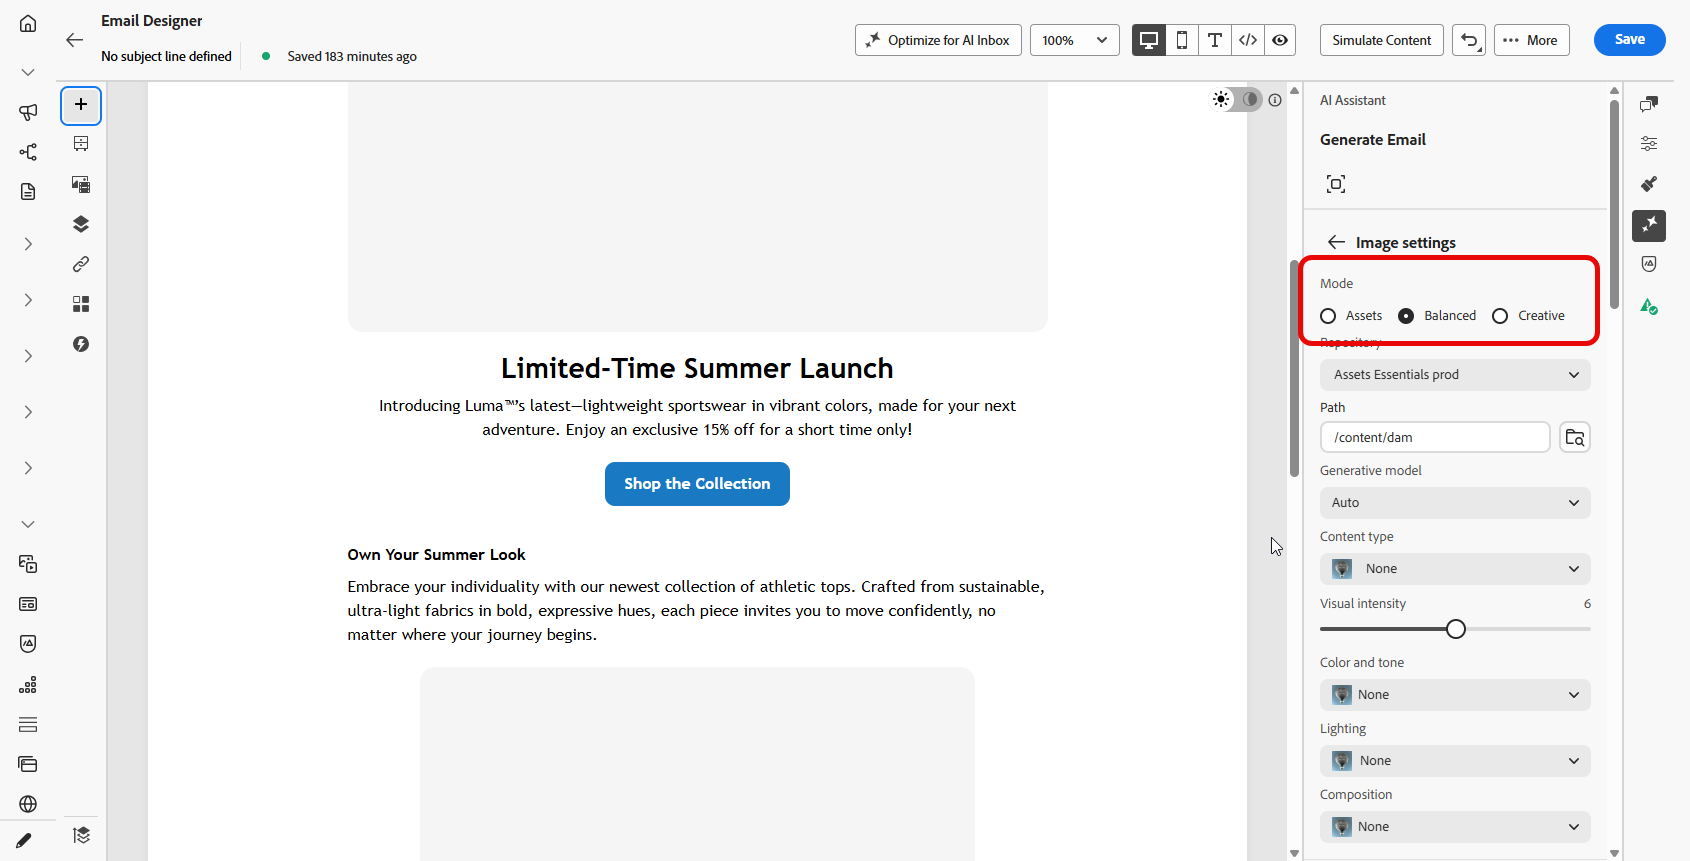
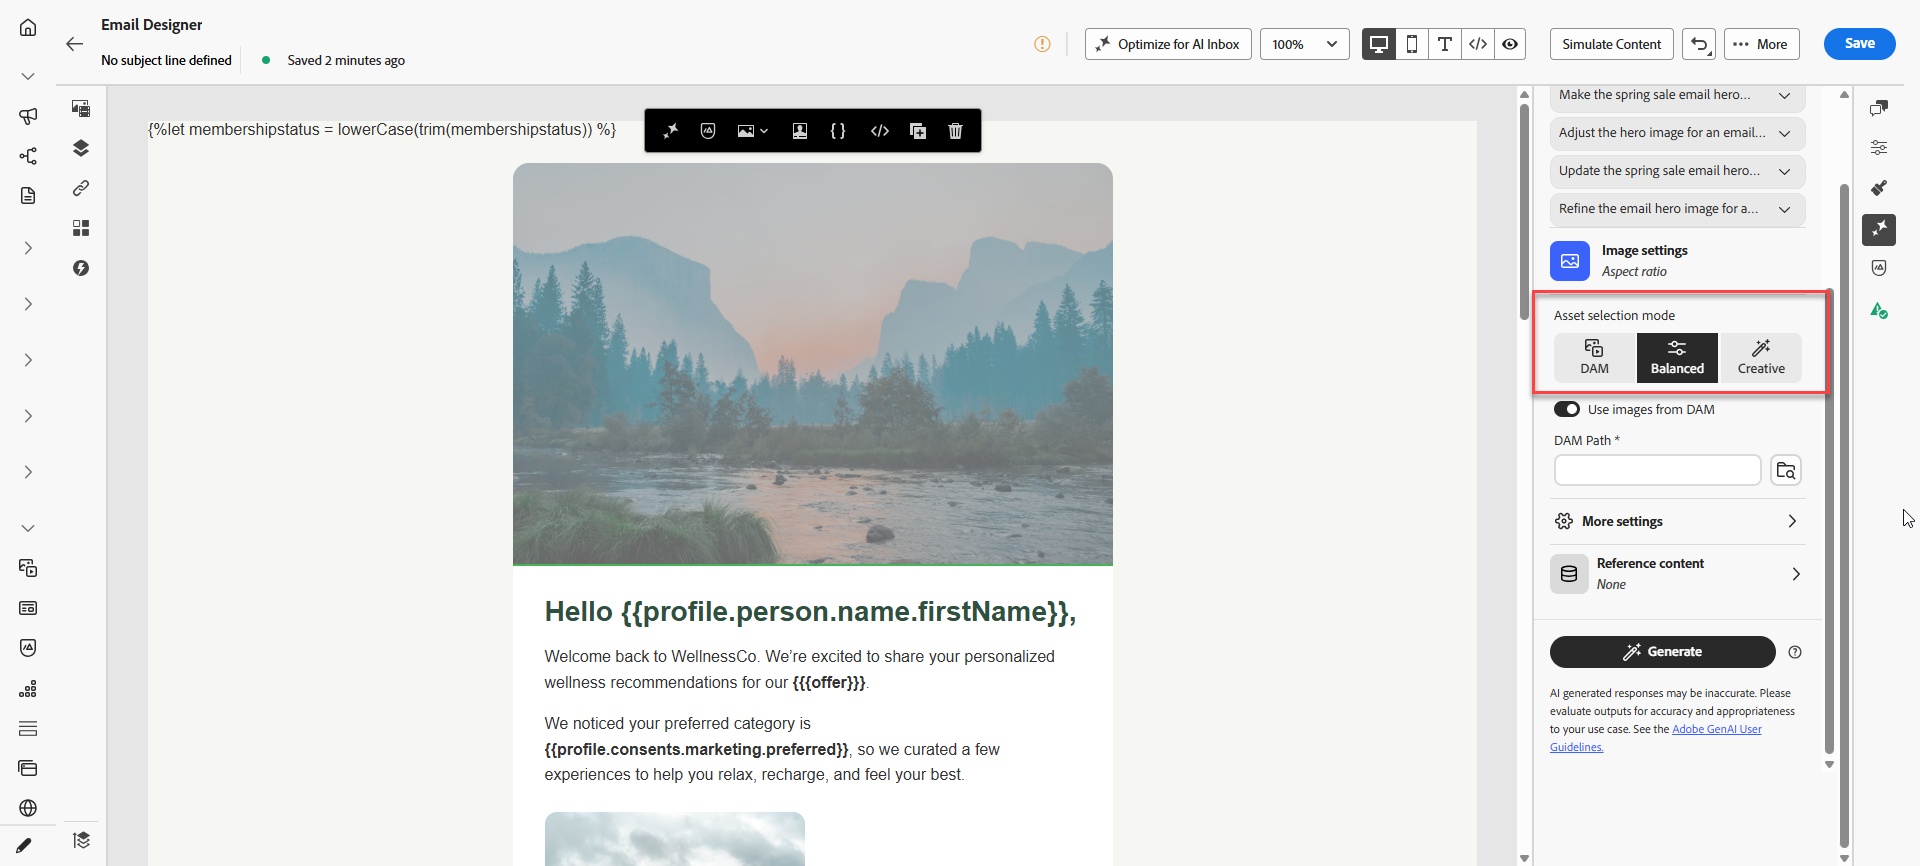
update with contextual help

diff --git a/help/using/content-management/generative-uc.md b/help/using/content-management/generative-uc.md
@@ -265,19 +265,26 @@ With **Gemini 2.5** selected as the generative model, you can produce image vari
 
 ## Use Image settings mode {#image-mode}
 
+>[!CONTEXTUALHELP]
+>id="ajo_assets_selection_mode"
+>title="Assets selection mode"
+>abstract="The [!UICONTROL Assets Mode] setting controls the origin of your visual assets. It allows you to define whether images are retrieved directly from your Digital Asset Management (DAM) library or dynamically produced using AI-generated content."
+
 The **[!UICONTROL Mode]** option under **[!UICONTROL Image settings]** controls how images are sourced from your Digital Asset Management library and generated content.
 
 1. After setting up your campaign, select **[!UICONTROL Edit content]**.
 
-1. Open the **[!UICONTROL AI Assistant]** section.
+1. Open the **[!UICONTROL Generate content]** section.
 
 1. Adjust the content by specifying your request in the **[!UICONTROL Prompt]** box and customize the settings as necessary.
 
 1. Choose your **[!UICONTROL Mode]** in the **[!UICONTROL Image settings]** menu:
 
-    * **[!UICONTROL Assets]**: AI Assistant looks for a matching image in your Digital Asset Management library and uses it as part of the generated content. If no match is found, add reference content or images manually before you generate.
-    * **[!UICONTROL Balanced]**: AI Assistant uses matching image from your Digital Asset Management library first. When that is not enough to cover the visuals you need, it generates images with AI.
-    * **[!UICONTROL Creative]**: AI Assistant creates images with generative AI and does not pull images directly from your Digital Asset Management library.
+    * **[!UICONTROL DAM]** (Digital Asset Management): AI looks for a matching image in your Digital Asset Management library and uses it as part of the generated content. If no match is found, add reference content or images manually before you generate. 
+      Choose a folder from your Digital Asset Management library to set your DAM path.
+    * **[!UICONTROL Balanced]**: AI uses matching image from your Digital Asset Management library first. When that is not enough to cover the visuals you need, it generates images with AI.
+      To use this, enable Use images from DAM, then choose a folder from your Digital Asset Management library to set your DAM path.
+    * **[!UICONTROL Creative]**: AI creates images with generative AI and does not pull images directly from your Digital Asset Management library.
 
     ![](assets/image-mode-3.png)
 
@@ -291,6 +298,6 @@ The **[!UICONTROL Mode]** option under **[!UICONTROL Image settings]** controls 
 
 1. Click **[!UICONTROL Apply]** to change your asset.
 
-1. If AI Assistant does not find a matching image in your Digital Asset Management library, the variation shows a placeholder image. Add reference content or upload an image manually, then generate again.
+1. If AI does not find a matching image in your Digital Asset Management library, the variation shows a placeholder image. Add reference content or upload an image manually, then generate again.
 
     ![](assets/image-mode-2.png)

diff --git a/help/using/start/user-interface.md b/help/using/start/user-interface.md
@@ -406,7 +406,3 @@ AI Assistant provides instant help and operational insights. Click the AI Assist
 
 <!-- Asset selector content generation -->
 
->[!CONTEXTUALHELP]
->id="ajo_assets_selection_mode"
->title="Assets selection mode"
->abstract="X"
